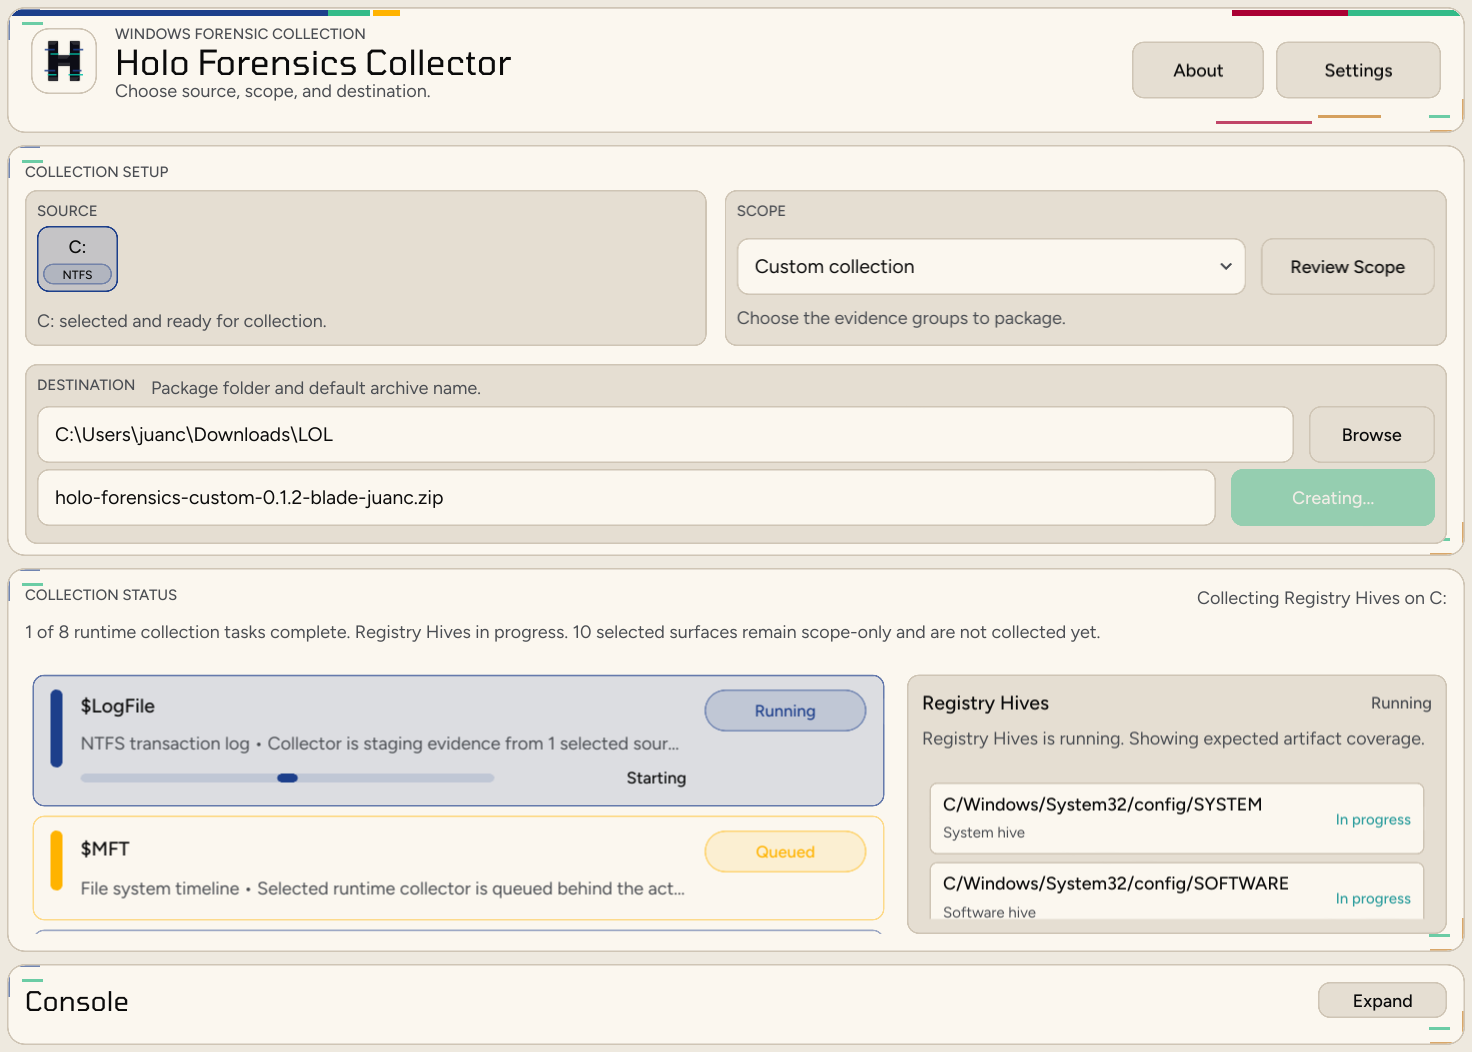
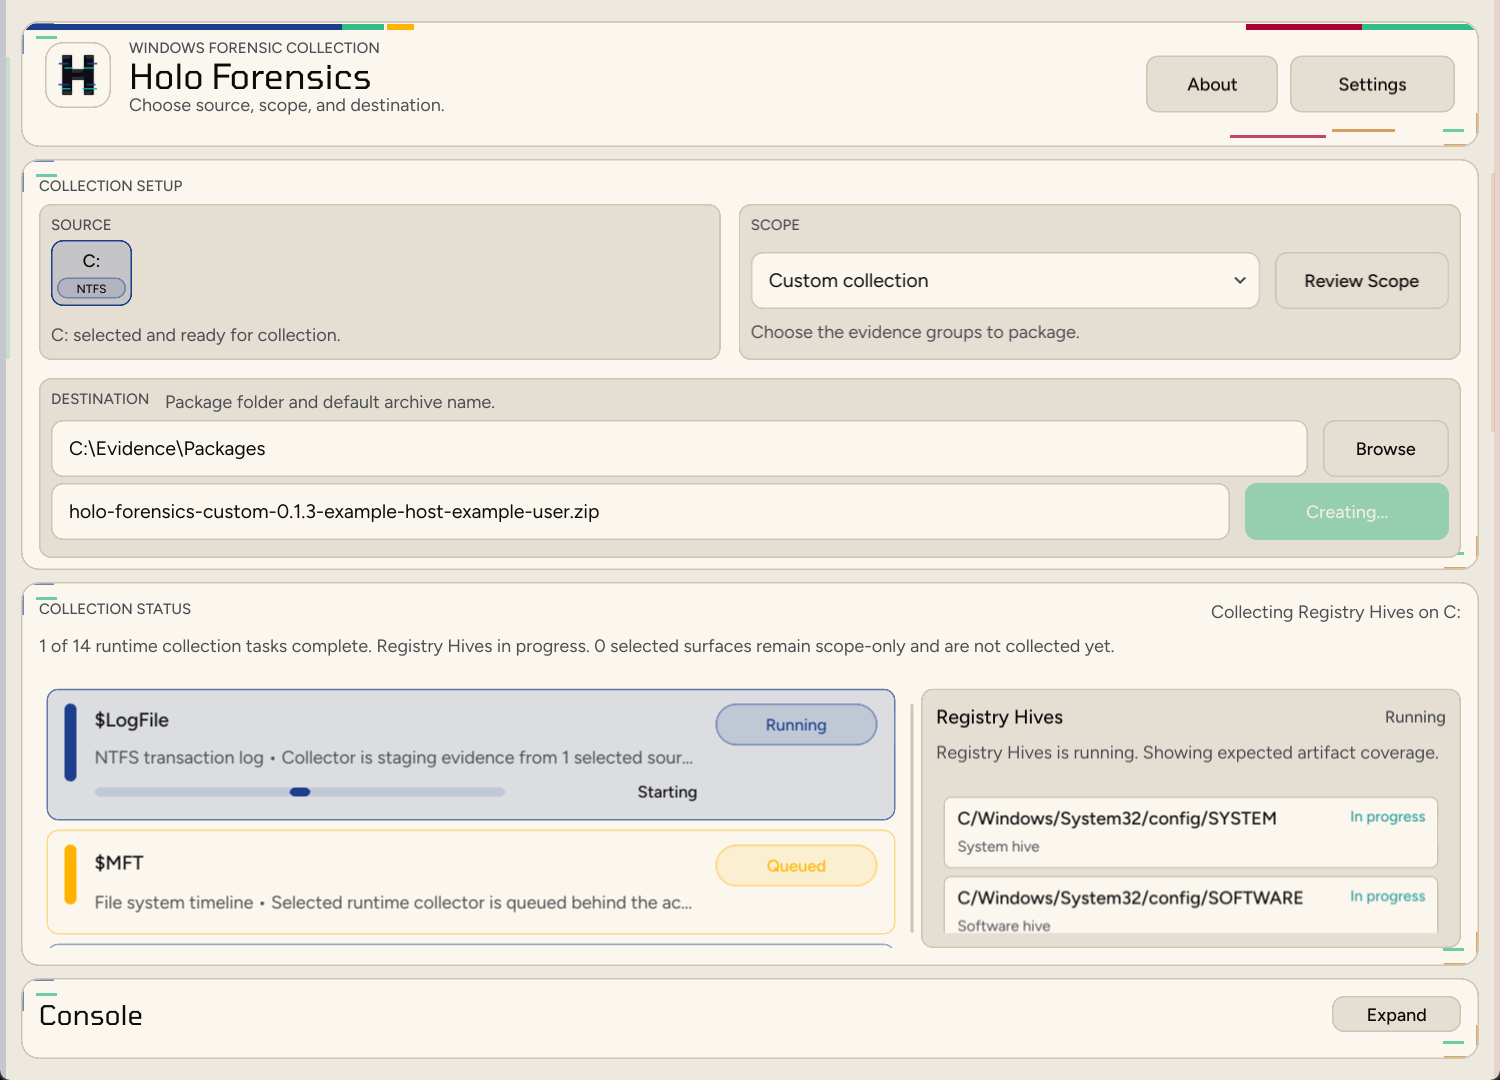
Release v0.1.3

Changed region(s): [[0.0, 0.0, 1.0, 1.0]]

diff --git a/src/desktop.rs b/src/desktop.rs
@@ -676,6 +676,7 @@ fn initialize_app(
     app.set_app_version(env!("CARGO_PKG_VERSION").into());
     app.set_collection_archive_path(display_path(&collection_output_dir).into());
     refresh_collection_output_filename(app);
+    apply_screenshot_safe_collection_defaults(app, options.screenshot_state);
     app.set_collection_usn_mode(settings.collection_usn_mode.clamp(0, 2));
     app.set_collection_usn_chunk_index(settings.collection_usn_chunk_index.clamp(0, 4));
     app.set_collection_sparse(settings.collection_sparse);
@@ -755,6 +756,25 @@ fn apply_launch_overlays(
             seed_collection_progress_overlay(app, state);
         }
     }
+}
+
+fn apply_screenshot_safe_collection_defaults(
+    app: &AppWindow,
+    screenshot_state: Option<DesktopScreenshotState>,
+) {
+    if screenshot_state.is_none() {
+        return;
+    }
+
+    app.set_collection_archive_path(r"C:\Evidence\Packages".into());
+    app.set_collection_output_filename(
+        format!(
+            "holo-forensics-{}-{}-example-host-example-user.zip",
+            collection_profile_slug(app.get_collection_profile()),
+            sanitize_archive_component(env!("CARGO_PKG_VERSION"), "unknown-version")
+        )
+        .into(),
+    );
 }
 
 fn seed_collection_progress_overlay(app: &AppWindow, state: &Arc<Mutex<DesktopState>>) {

diff --git a/.github/release-notes/v0.1.3.md b/.github/release-notes/v0.1.3.md
@@ -1,0 +1,17 @@
+# Holo Forensics v0.1.3
+
+## ✨ What's Changed
+
+- Added Windows Jump Lists collection support.
+- Added VSS-backed Prefetch collection support.
+- Added Windows LNK collection support.
+- Added Recycle Bin collection support.
+- Added Scheduled Tasks collection support.
+- Added PowerShell activity collection support.
+- Updated README screenshots so release assets stay theme-aware.
+- Removed unsupported collection scope cards from the desktop workflow.
+
+## 🧪 Release Notes
+
+- This release expands Windows collection coverage across shell artifacts, execution evidence, scheduled tasks, and user activity.
+- The desktop scope review and release assets were also tightened up to reflect the currently supported collection surface.
